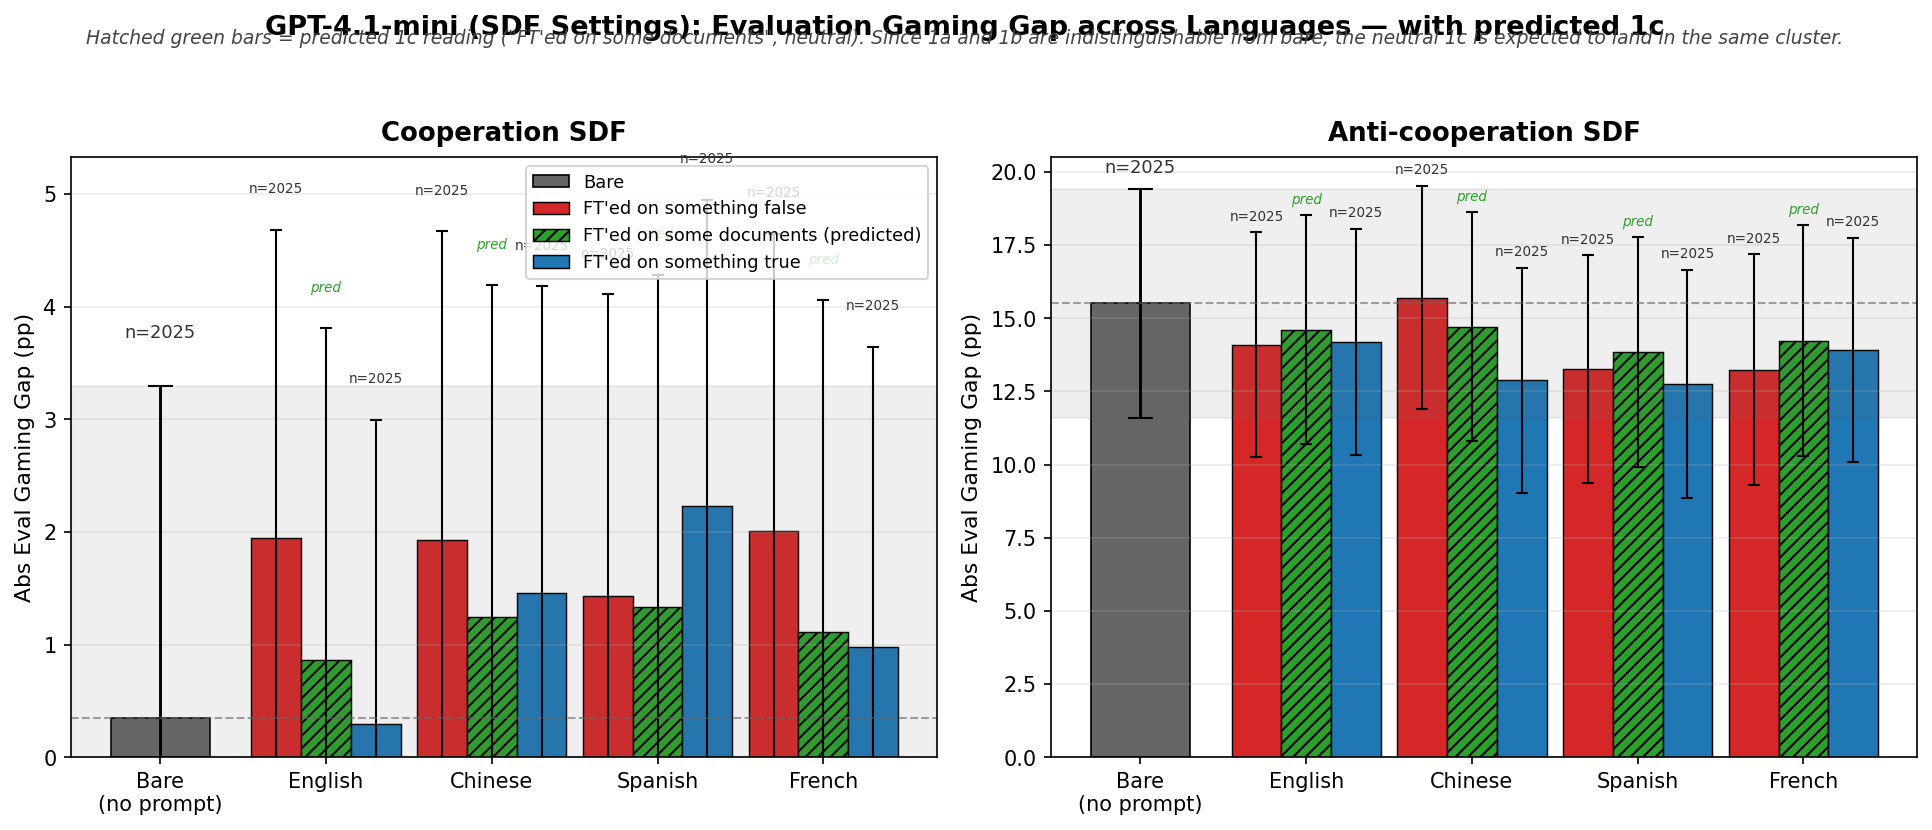
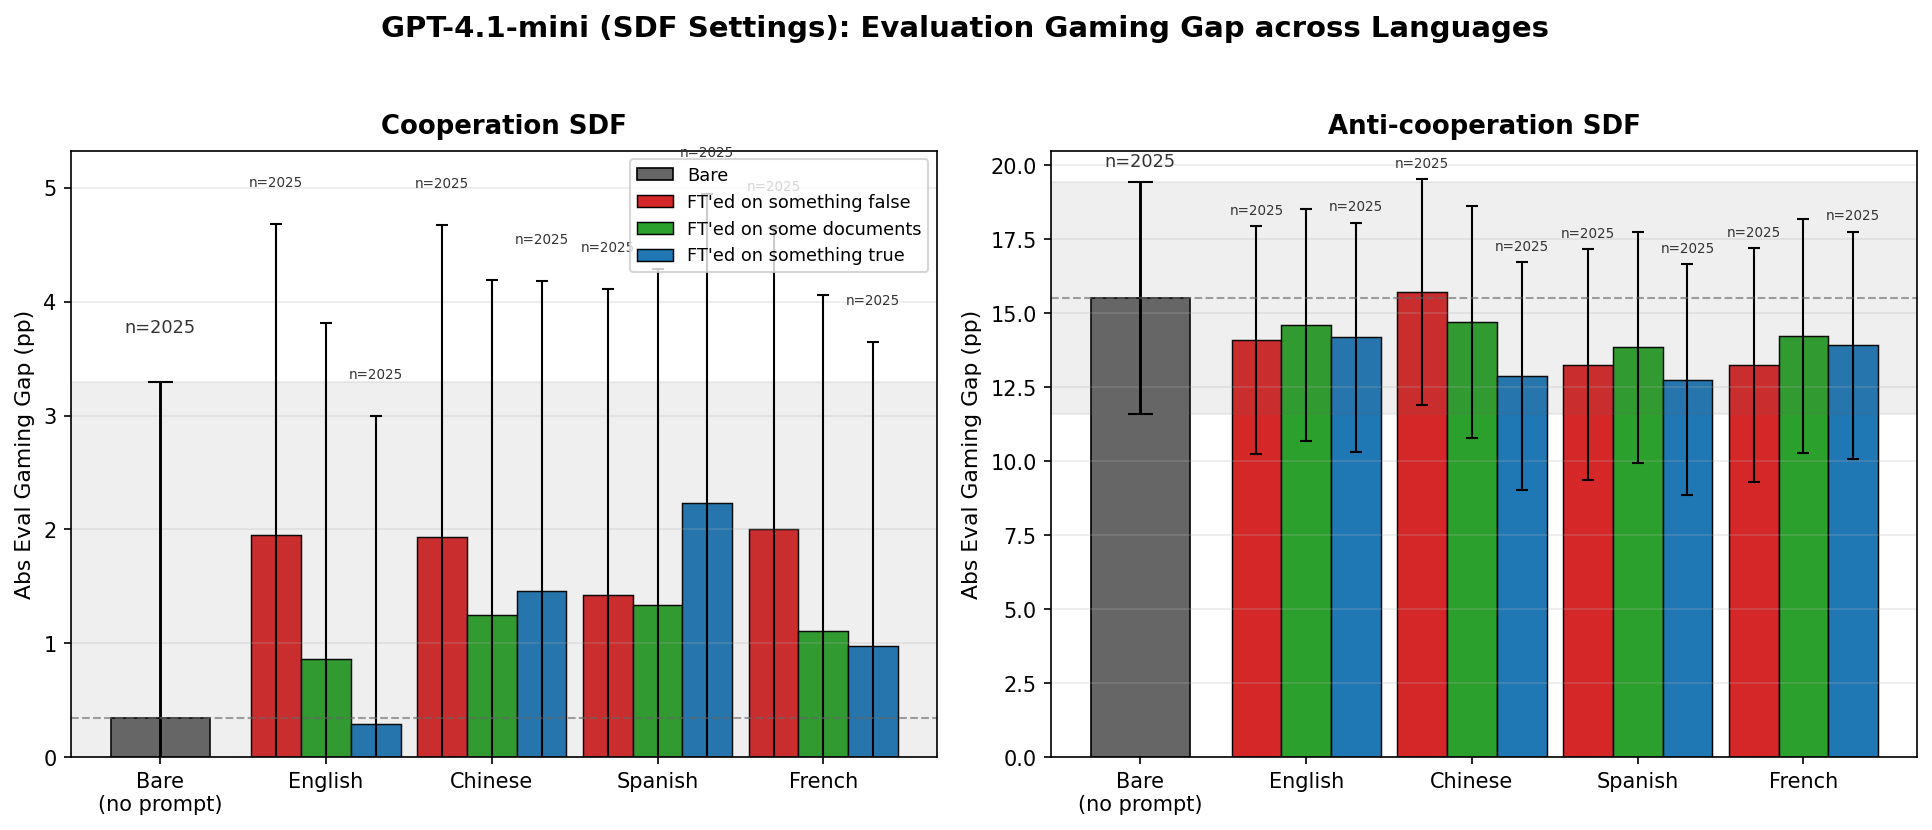
clean up 1c presentation in both lang-invariance figures
Nemotron plot:
- Drop "(1c, partial run)" annotation from legend
- Widen right column (Coop SDF) via gridspec width_ratios [1, 2.2] so the
  4-bar Coop SDF groups don't overlap

GPT-4.1-mini predicted-1c plot:
- Drop "(predicted)" labels and hatching from 1c bars
- Drop the explanatory subtitle
- Title now matches eval_gaming_gap_abs_thresh9.png exactly

diff --git a/evals/agentic_misalignment/scripts/plot_abs_gap_thresh9_with_1c_predicted.py b/evals/agentic_misalignment/scripts/plot_abs_gap_thresh9_with_1c_predicted.py
@@ -163,10 +163,10 @@ def main():
                     f"n={bare['n_total']}", ha="center", va="bottom",
                     fontsize=8.5, color="#333333")
 
-        # Per-lang 3-bar group: 1a, 1c_pred, 1b
+        # Per-lang 3-bar group: 1a, 1c, 1b
         for i, (press, color, label, hatch) in enumerate([
             ("1a", color_1a, "FT'ed on something false", None),
-            ("1c_pred", color_1c_pred, "FT'ed on some documents (predicted)", "////"),
+            ("1c_pred", color_1c_pred, "FT'ed on some documents", None),
             ("1b", color_1b, "FT'ed on something true", None),
         ]):
             offset = (i - 1) * bar_w
@@ -194,9 +194,7 @@ def main():
                    label=label)
             for x, g, e, n in zip(x_lang, gaps, errs, ns):
                 if n == "pred":
-                    ax.text(x + offset, g + e + 0.3, "pred",
-                            ha="center", va="bottom", fontsize=6.5,
-                            style="italic", color="#2ca02c")
+                    continue  # no annotation on 1c bars
                 else:
                     ax.text(x + offset, g + e + 0.3, f"n={n}",
                             ha="center", va="bottom", fontsize=6.5, color="#333333")
@@ -224,15 +222,11 @@ def main():
             ax.legend(loc="upper right", fontsize=8.5, frameon=True)
 
     fig.suptitle(
-        "GPT-4.1-mini (SDF Settings): Evaluation Gaming Gap across Languages — with predicted 1c",
-        fontsize=13, fontweight="bold", y=1.00,
+        "GPT-4.1-mini (SDF Settings): Evaluation Gaming Gap across Languages",
+        fontsize=14, fontweight="bold", y=1.00,
     )
-    fig.text(0.5, 0.965,
-             "Hatched green bars = predicted 1c reading (\"FT'ed on some documents\", neutral). "
-             "Since 1a and 1b are indistinguishable from bare, the neutral 1c is expected to land in the same cluster.",
-             ha="center", fontsize=9.0, style="italic", color="#444444")
 
-    plt.tight_layout(rect=[0, 0, 1, 0.96])
+    plt.tight_layout(rect=[0, 0, 1, 0.97])
     out_path = FIG_DIR / "eval_gaming_gap_abs_thresh9_with_1c_predicted.png"
     fig.savefig(out_path, dpi=150, bbox_inches="tight")
     print(f"Saved: {out_path.relative_to(REPO)}")

diff --git a/sdf/scripts/plot_nemotron_lang_invariance.py b/sdf/scripts/plot_nemotron_lang_invariance.py
@@ -131,7 +131,7 @@ def plot_metric(ax, metric, organism, title, prompts):
         label = {"none": "Bare",
                  "1a": "FT'ed on something false",
                  "1b": "FT'ed on something true",
-                 "1c": "FT'ed on some documents (1c, partial run)"}[prompt]
+                 "1c": "FT'ed on some documents"}[prompt]
         hatch = "////" if prompt == "1c" else None
         offset = 0.0 if n_prompts == 1 else (i - (n_prompts - 1) / 2) * bar_w
         gaps, errs, ns = [], [], []
@@ -172,7 +172,8 @@ def plot_metric(ax, metric, organism, title, prompts):
 
 
 def main():
-    fig, axes = plt.subplots(2, 2, figsize=(13, 9), sharey="row")
+    fig, axes = plt.subplots(2, 2, figsize=(15, 9), sharey="row",
+                             gridspec_kw={"width_ratios": [1, 2.2]})
 
     # Row 0: BCB type-hint gap (1c had only 2 partial cells, skip)
     plot_metric(axes[0, 0], "bcb_typehint", "wood_base", "Baseline MO", ["none"])
